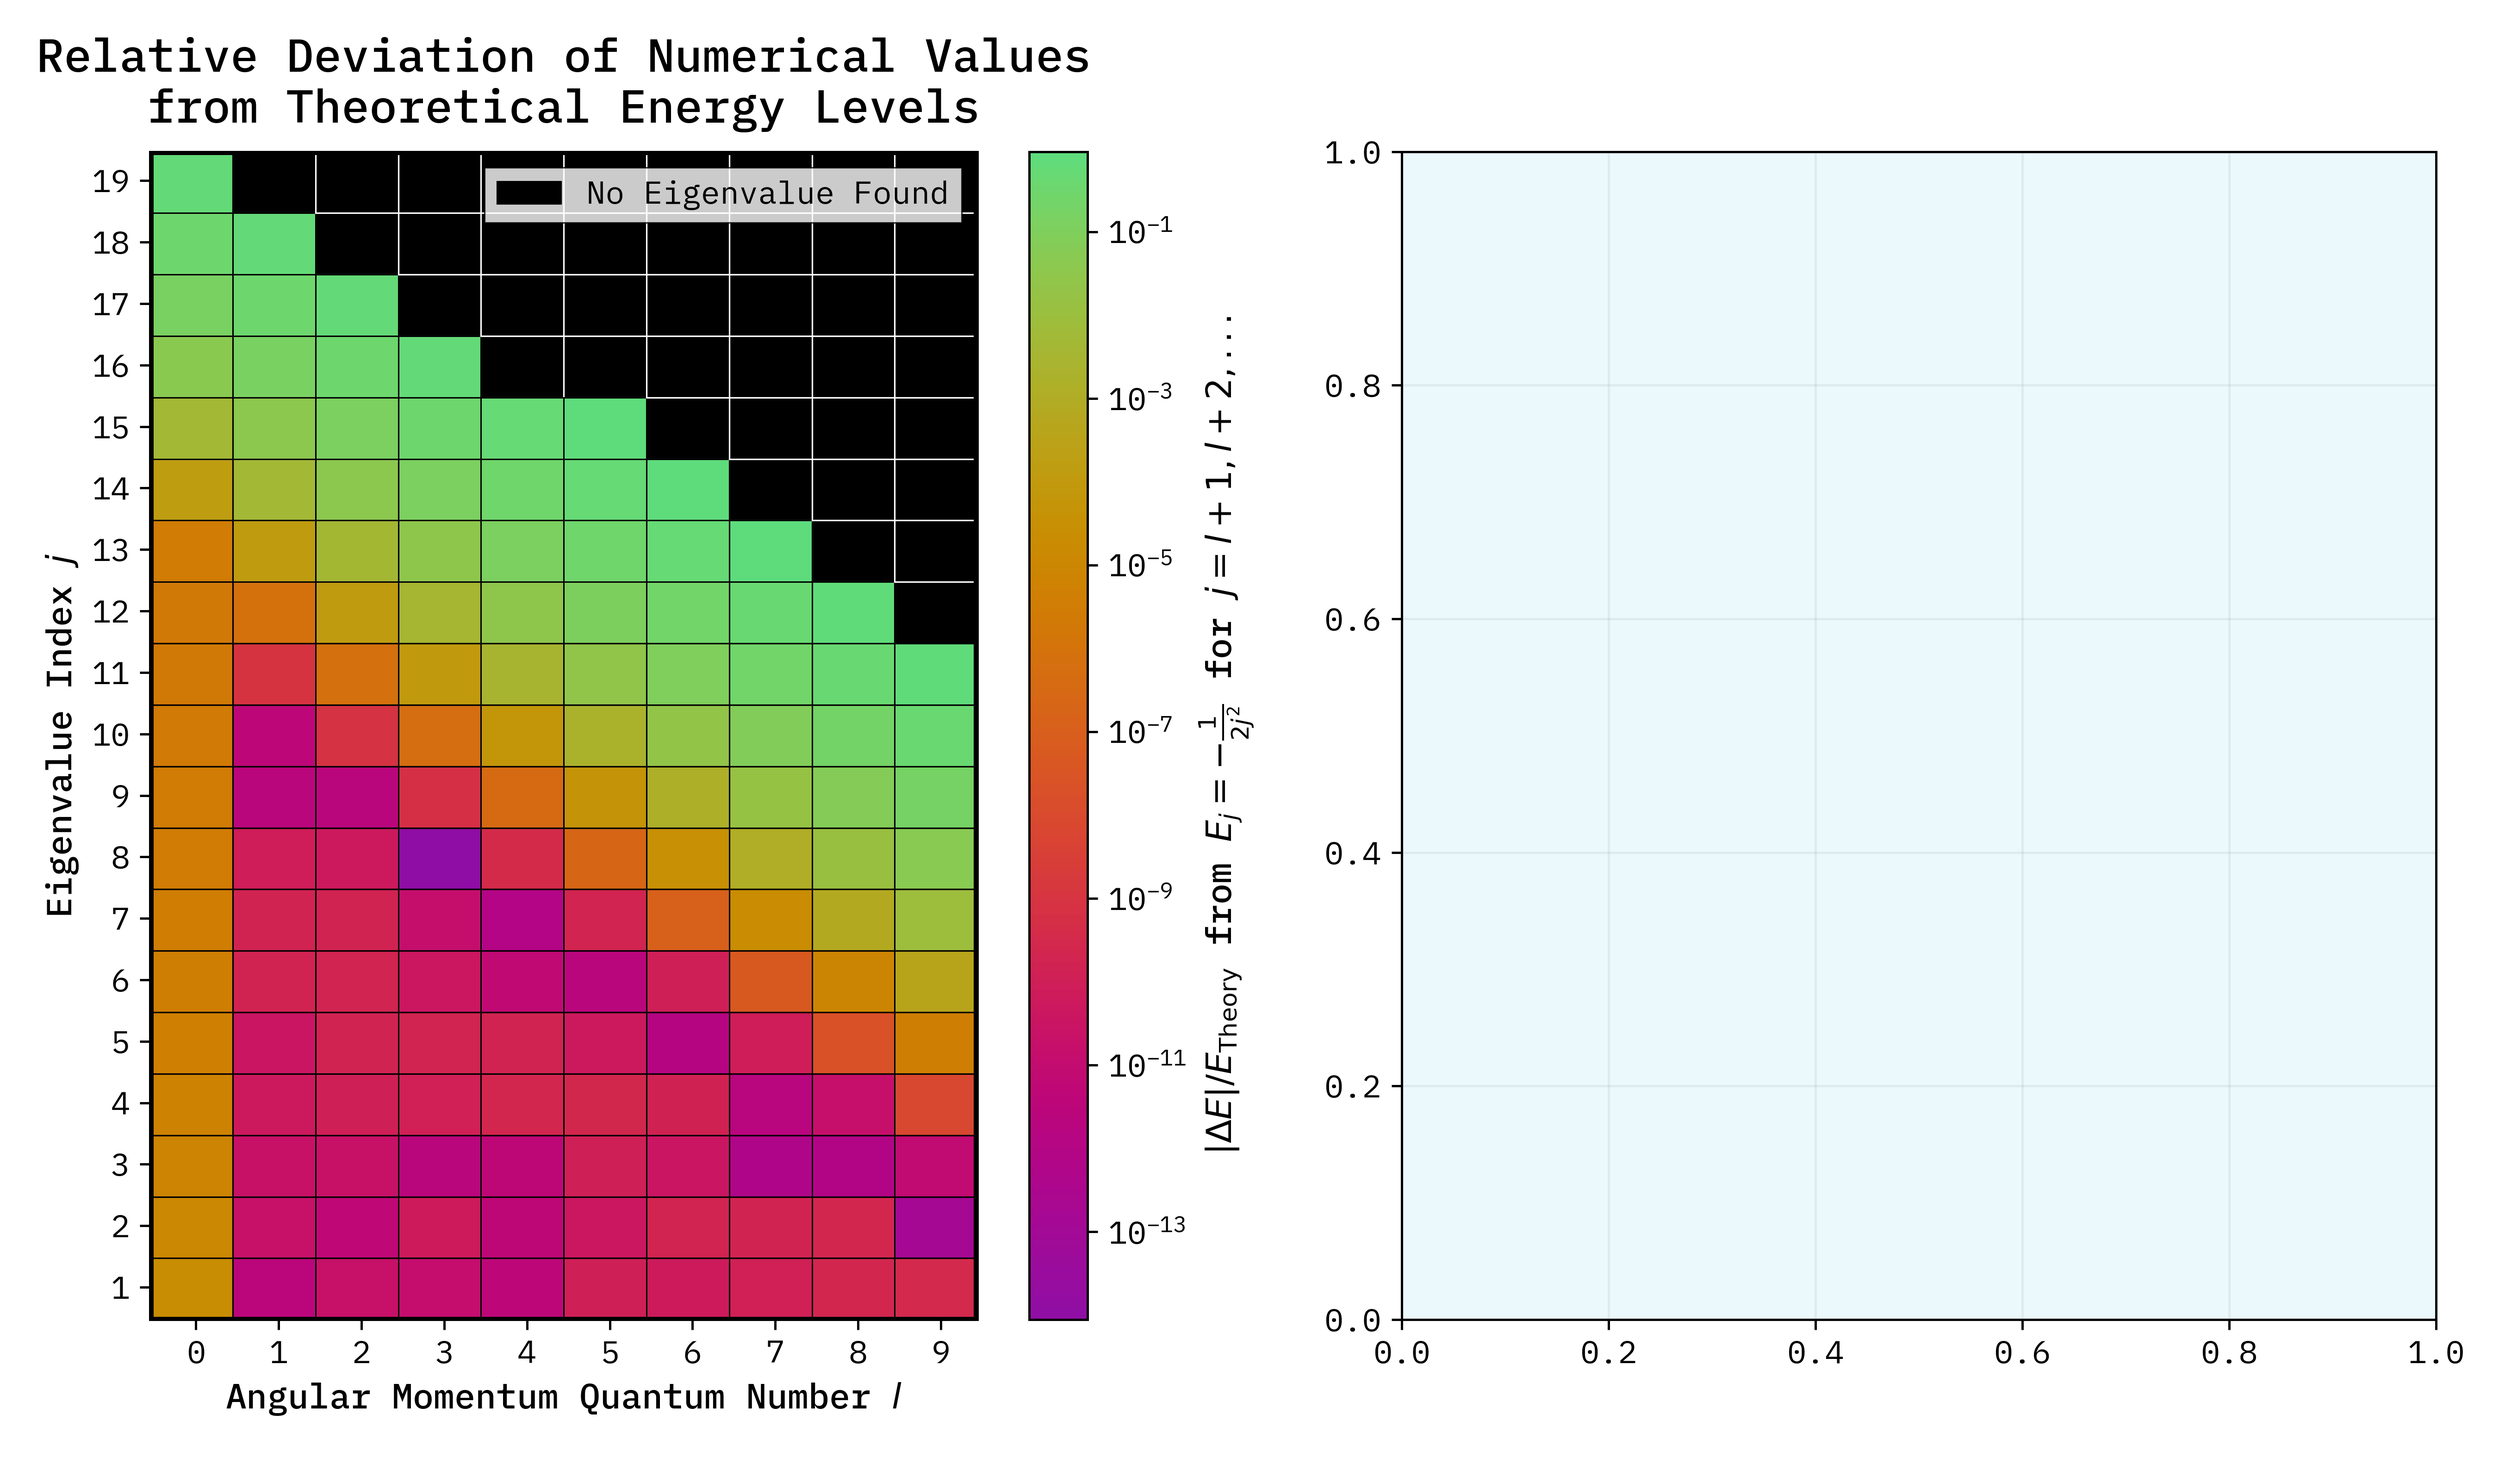
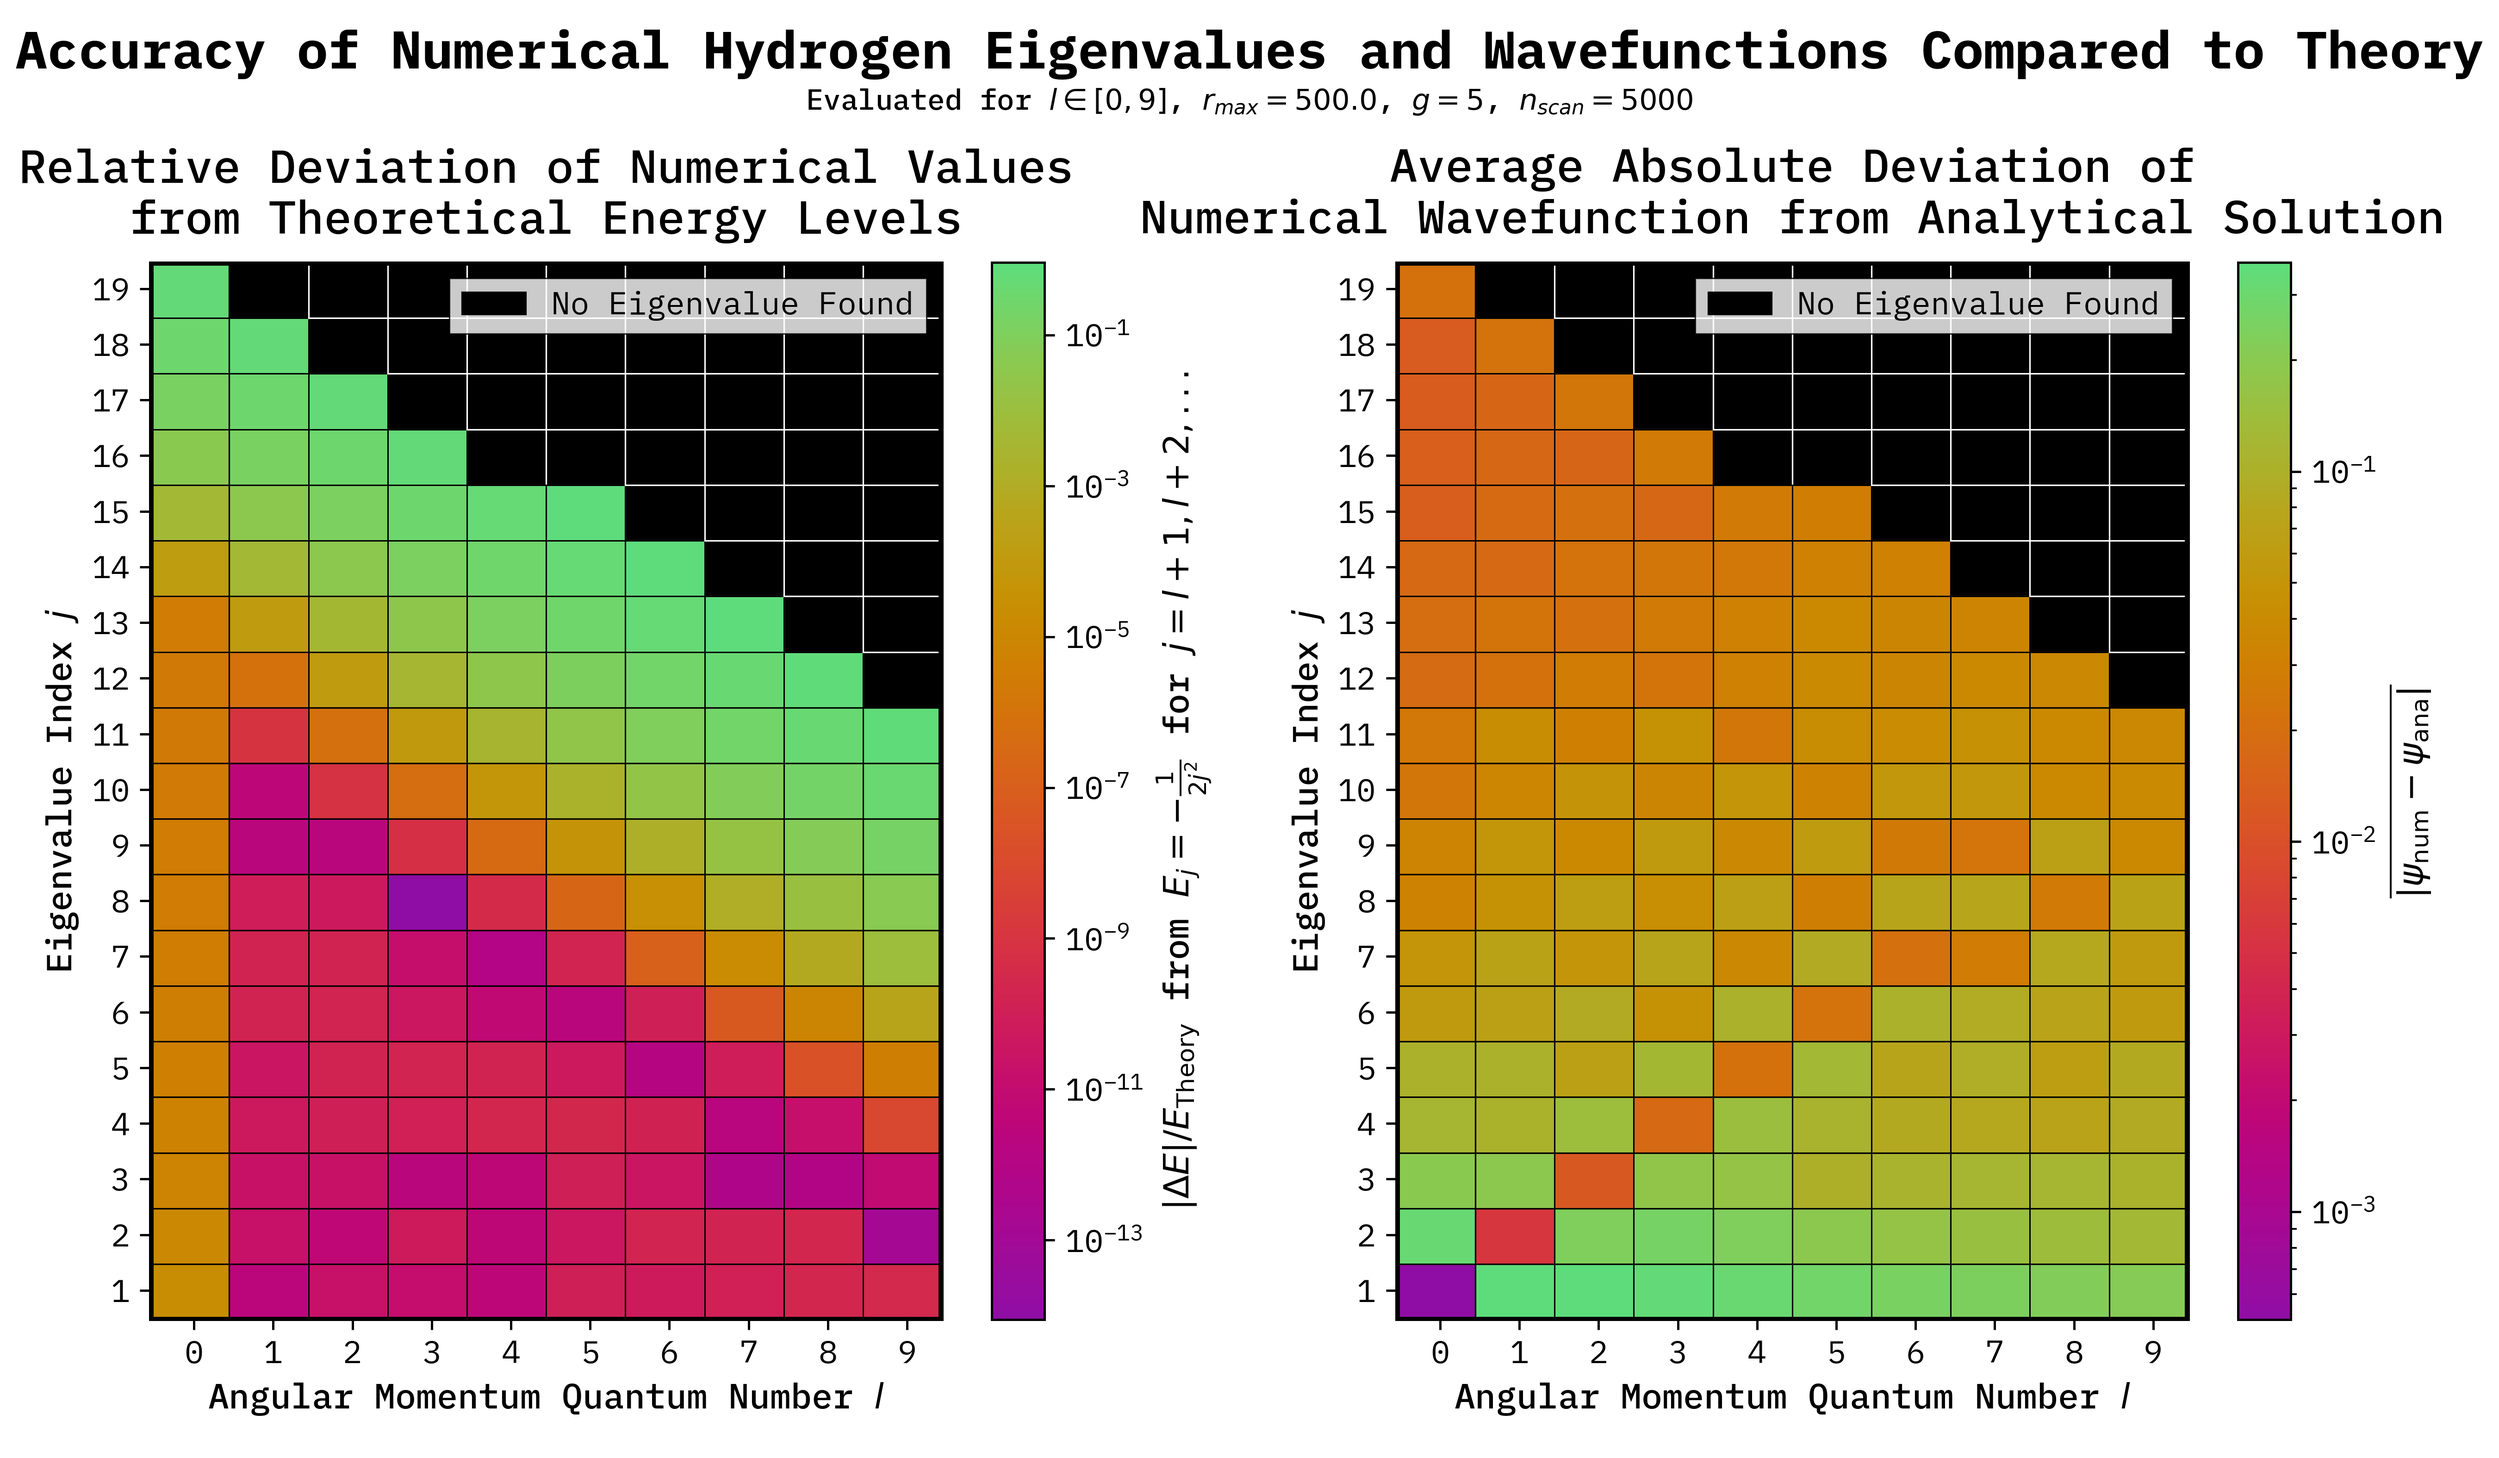
feat: :art: finish eigval and WF deviation plot

diff --git a/Code/l-plot.py b/Code/l-plot.py
@@ -47,6 +47,15 @@ for i, l_val in enumerate(l_vals):
 # Take abs deviations
 eigenvalues_array = np.abs(eigenvalues_array)
 
+# Evaluate Avg. Abs. Dev. for Wavefunction via Shooting vs. Analytical
+wf_abs_devs = np.full((len(l_vals), max_eigenvalues), np.nan)
+for i, l_val in enumerate(l_vals):
+    l_eig = eigenvalues[i]
+    x_ranges, wf_shoot = get_hydrogen_wavefunctions(l_eig, l=l_val)
+    wf_ana = np.array([hydrogen_analytic(x_ranges[i], n=l_val + 1 + j, l=l_val) for j in range(len(l_eig))])
+
+    wf_abs_devs[i, :len(l_eig)] = np.array([np.mean(np.abs(wf_shoot[j] - wf_ana[j])) for j in range(len(l_eig))])
+
 fig, ax = plt.subplots(1, 2, figsize=(12, 7))
 cm = cmr.get_sub_cmap("cmr.tropical", 0.0, 0.8)
 cm.set_bad(color="black")
@@ -60,40 +69,54 @@ ax[0].set_title("Relative Deviation of Numerical Values\nfrom Theoretical Energy
 ax[0].grid(False)
 cbar = fig.colorbar(img, ax=ax[0], label=r"$|\Delta E|/E_{\text{Theory}}$ from $E_j = -\frac{1}{2j^2}$ for $j = l + 1, l + 2, ...$")
 
-# Add black rectangle patch for bad data legend
-bad_patch = Patch(color='black', label='No Eigenvalue Found')
-ax[0].legend(handles=[bad_patch], loc='upper right', frameon=True)
 
-# Plot grid for easier visualization
-ls_box = np.linspace(l_vals[0], l_vals[-1], len(l_vals)+1)
-print(eigenvalues_array.T.shape)
-hs_box = np.linspace(1, max_eigenvalues, max_eigenvalues+1)
-for i in range(len(ls_box)):
-    for j in range(len(hs_box)):
-        x1 = np.array([ls_box[i], ls_box[i]])
-        y1 = np.array([hs_box[j], hs_box[j-1]])
-        x2 = np.array([ls_box[i-1], ls_box[i]])
-        y2 = np.array([hs_box[j], hs_box[j]])
 
-        flag = np.isnan(eigenvalues_array[i-1, j-1])
-        if flag:
-            grid_c = "white"
-        else:
-            grid_c = "black"
+for a in ax:
+    # Center ticks on integer l values and eigenvalue indices
+    a.set_xticks(l_vals + 0.5 - np.array([(j-1)/len(l_vals) for j in range(1, len(l_vals)+1)]))
+    a.set_xticklabels([f"{l}" for l in l_vals])
+    a.set_yticks((np.arange(1, max_eigenvalues + 1) + 0.5) - np.array([(j-1)/max_eigenvalues for j in range(1, max_eigenvalues + 1)]))
+    a.set_yticklabels([f"{j}" for j in range(1, max_eigenvalues + 1)])
 
-        ax[0].plot(x1, y1, color=grid_c, lw=0.5, zorder=2)
-        ax[0].plot(x2, y2, color=grid_c, lw=0.5, zorder=2)
-        ax[0].plot([ls_box[0], ls_box[0]], [hs_box[0], hs_box[-1]], color="k", lw=2.5, zorder=2)
-        ax[0].plot([ls_box[-1], ls_box[-1]], [hs_box[0], hs_box[-1]], color="k", lw=2.5, zorder=2)
-        ax[0].plot([ls_box[0], ls_box[-1]], [hs_box[0], hs_box[0]], color="k", lw=2, zorder=2)
-        ax[0].plot([ls_box[0], ls_box[-1]], [hs_box[-1], hs_box[-1]], color="k", lw=2, zorder=2)
+    # Add black rectangle patch for bad data legend
+    bad_patch = Patch(color='black', label='No Eigenvalue Found')
+    a.legend(handles=[bad_patch], loc='upper right', frameon=True)
+    
+    # Plot grid for easier visualization
+    ls_box = np.linspace(l_vals[0], l_vals[-1], len(l_vals)+1)
+    hs_box = np.linspace(1, max_eigenvalues, max_eigenvalues+1)
+    for i in range(len(ls_box)):
+        for j in range(len(hs_box)):
+            x1 = np.array([ls_box[i], ls_box[i]])
+            y1 = np.array([hs_box[j], hs_box[j-1]])
+            x2 = np.array([ls_box[i-1], ls_box[i]])
+            y2 = np.array([hs_box[j], hs_box[j]])
 
-# Center ticks on integer l values and eigenvalue indices
-ax[0].set_xticks(l_vals + 0.5 - np.array([(j-1)/len(l_vals) for j in range(1, len(l_vals)+1)]))
-ax[0].set_xticklabels([f"{l}" for l in l_vals])
-ax[0].set_yticks((np.arange(1, max_eigenvalues + 1) + 0.5) - np.array([(j-1)/max_eigenvalues for j in range(1, max_eigenvalues + 1)]))
-ax[0].set_yticklabels([f"{j}" for j in range(1, max_eigenvalues + 1)])
+            flag = np.isnan(eigenvalues_array[i-1, j-1])
+            if flag:
+                grid_c = "white"
+            else:
+                grid_c = "black"
 
+            a.plot(x1, y1, color=grid_c, lw=0.5, zorder=2)
+            a.plot(x2, y2, color=grid_c, lw=0.5, zorder=2)
+            a.plot([ls_box[0], ls_box[0]], [hs_box[0], hs_box[-1]], color="k", lw=2.5, zorder=2)
+            a.plot([ls_box[-1], ls_box[-1]], [hs_box[0], hs_box[-1]], color="k", lw=2.5, zorder=2)
+            a.plot([ls_box[0], ls_box[-1]], [hs_box[0], hs_box[0]], color="k", lw=2, zorder=2)
+            a.plot([ls_box[0], ls_box[-1]], [hs_box[-1], hs_box[-1]], color="k", lw=2, zorder=2)
+
+norm2 = mpl.colors.LogNorm(vmin=np.nanmin(wf_abs_devs), vmax=np.nanmax(wf_abs_devs))
+img2 = ax[1].imshow(wf_abs_devs.T, aspect='auto', cmap=cm, norm=norm2, origin='lower',
+                extent=[l_vals[0], l_vals[-1], 1, max_eigenvalues], zorder=1)
+ax[1].set_xlabel("Angular Momentum Quantum Number $l$")
+ax[1].set_ylabel("Eigenvalue Index $j$")
+ax[1].set_title("Average Absolute Deviation of\nNumerical Wavefunction from Analytical Solution")
+ax[1].grid(False)
+cbar2 = fig.colorbar(img2, ax=ax[1], label=r"$\overline{|\psi_{\text{num}} - \psi_{\text{ana}}|}$")
+plt.suptitle(f"Accuracy of Numerical Hydrogen Eigenvalues and Wavefunctions Compared to Theory")
 plt.tight_layout()
+plt.subplots_adjust(top=0.82)
+par_str = f"Evaluated for $l\in[{l_min}, {l_max}]$, $r_{{max}}={r_max}$, $g={int(np.log10(granularity))}$, $n_{{scan}}=5000$"
+plt.text(0.5, 0.93, par_str, ha='center', va='center', transform=plt.gcf().transFigure, fontsize=10, weight="medium")
 plt.savefig(f"./Images/hydrogen_eigenvalues_l{l_min}_to_{l_max}_r{r_max}_g{int(np.log10(granularity))}.png", dpi=450)
 plt.show()
